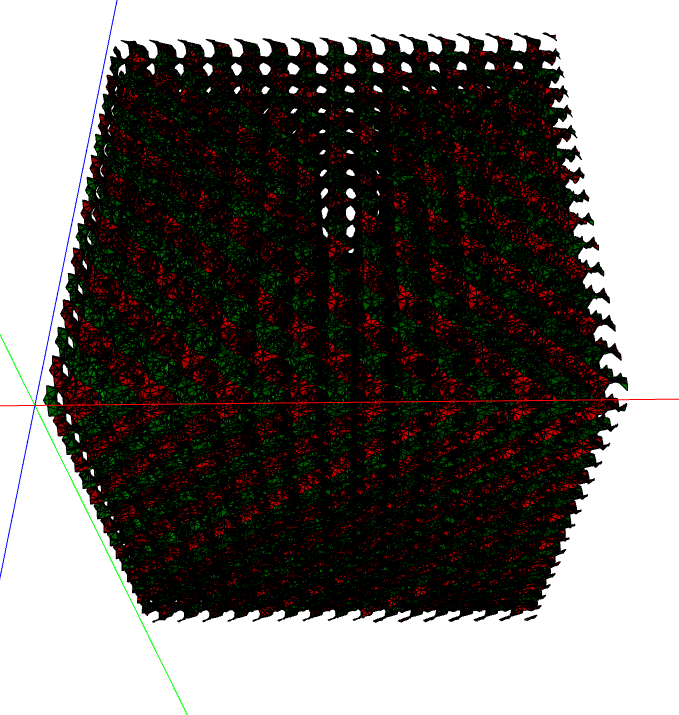
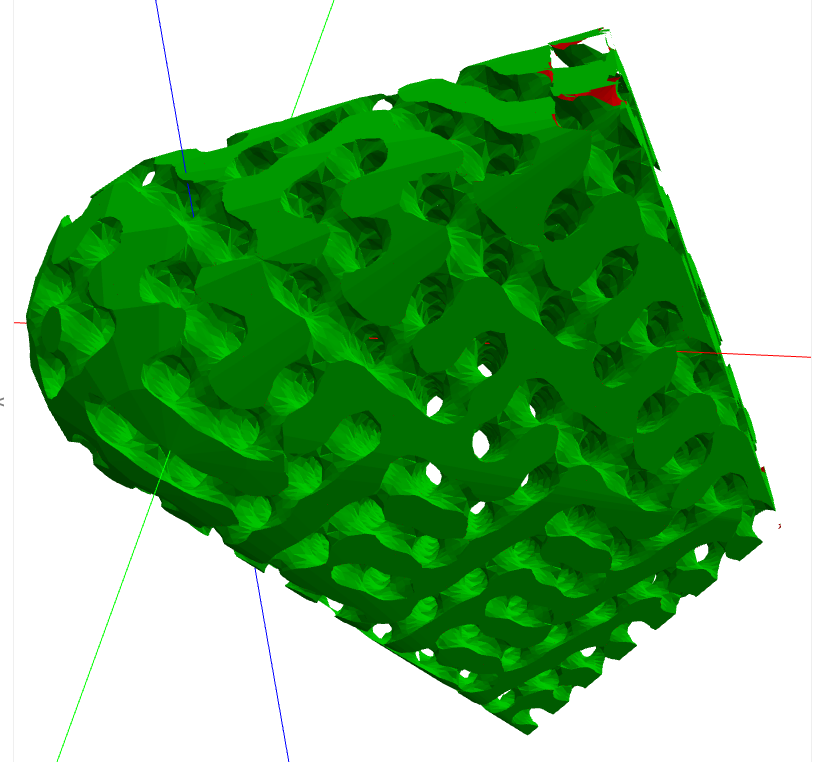
update tpms renders

diff --git a/src/main.rs b/src/main.rs
@@ -393,13 +393,13 @@ fn main() {
     // Let's reuse the `cube` from above:
     #[cfg(feature = "stl-io")]
     {
-        let gyroid_inside_cube = cube.gyroid(64, 2.0, 0.0, None);
+        let gyroid_inside_cube = hull_of_union.scale(20.0, 20.0, 20.0).gyroid(64, 2.0, 0.0, None);
         let _ = fs::write("stl/gyroid_cube.stl", gyroid_inside_cube.to_stl_binary("gyroid_cube").unwrap());
         
-        let schwarzp_inside_cube = cube.schwarz_p(64, 2.0, 0.0, None);
+        let schwarzp_inside_cube = hull_of_union.scale(20.0, 20.0, 20.0).schwarz_p(64, 2.0, 0.0, None);
         let _ = fs::write("stl/schwarz_p_cube.stl", schwarzp_inside_cube.to_stl_binary("schwarz_p_cube").unwrap());
         
-        let schwarzd_inside_cube = cube.schwarz_d(64, 2.0, 0.0, None);
+        let schwarzd_inside_cube = hull_of_union.scale(20.0, 20.0, 20.0).schwarz_d(64, 2.0, 0.0, None);
         let _ = fs::write("stl/schwarz_d_cube.stl", schwarzd_inside_cube.to_stl_binary("schwarz_d_cube").unwrap());
     }
     
